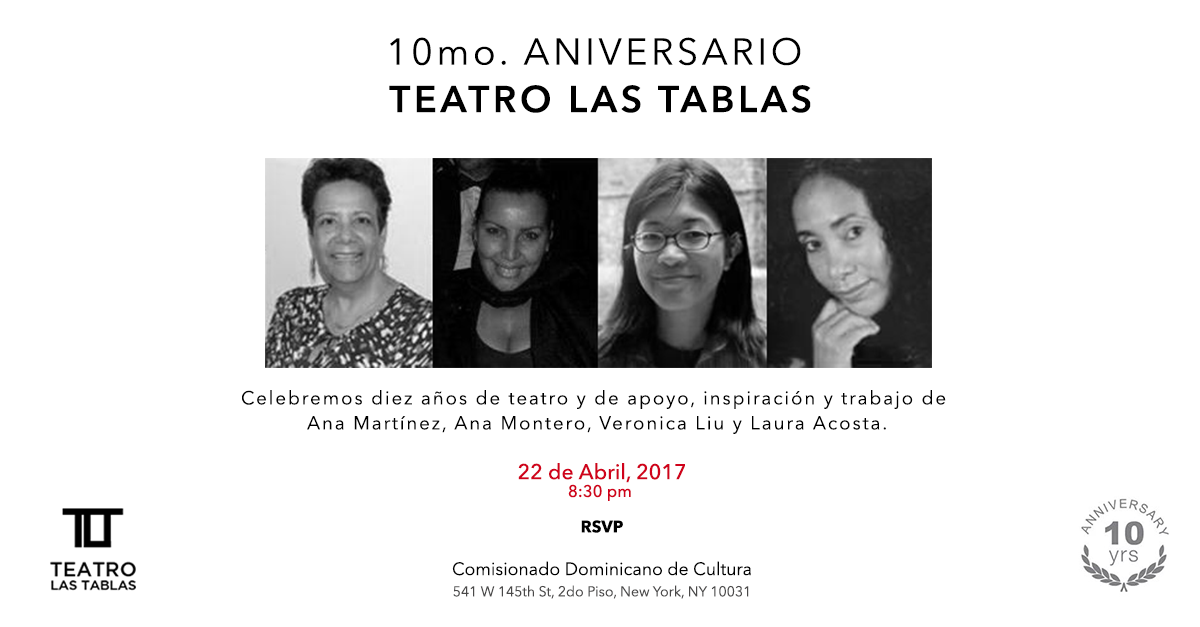
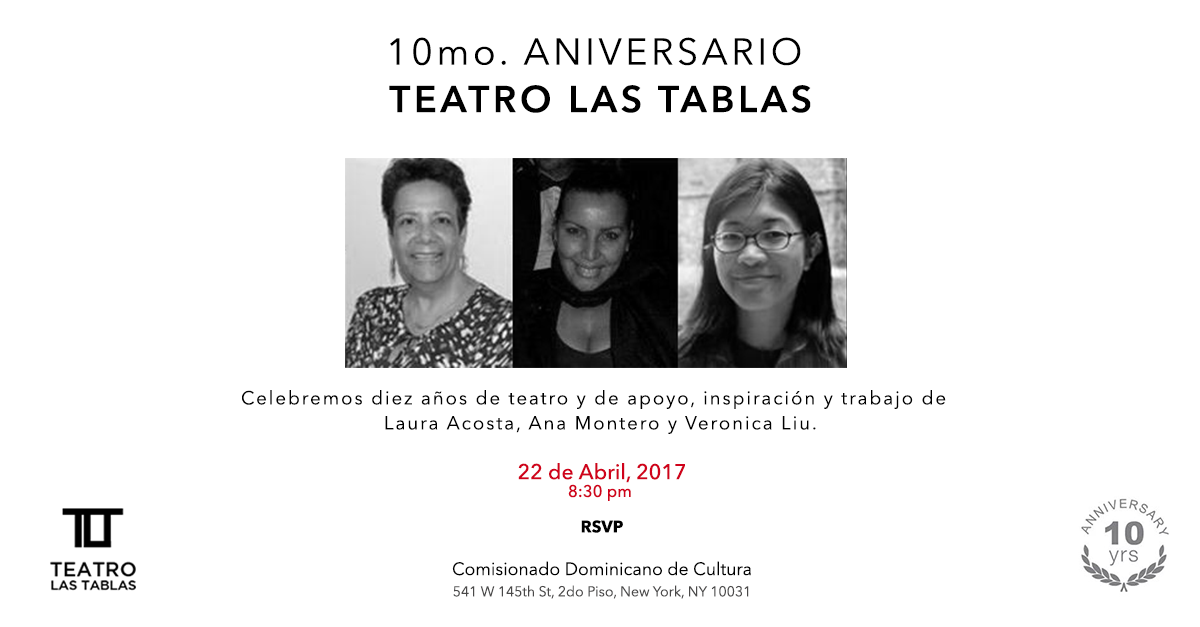
updated toast ad info and image

Changed region(s): [[0.2158, 0.2424, 0.8017, 0.6061], [0.2467, 0.6667, 0.74, 0.697]]

diff --git a/index.html b/index.html
@@ -74,7 +74,7 @@
               	<h1 class="drawline">Qu&eacute; est&aacute; pasando?</h1>
                     <a href="https://www.eventbrite.com/e/brindis-10mo-aniversario-tickets-33706873165?aff=eac2" ><div class="event_peek">10mo. Aniversario Teatro Las Tablas <p>Abril 22, 2017 | 8:30pm</p></div></a>
                 <img src="images/10anniversary_ad.png" title="10anniversary" class="event_image"/>
-                    <p>En su d&eacute;cimo aniversario <b>Teatro Las Tablas</b> celebra la creatividad, la valoración y sostenimiento de la energ&iacute;a que los impulsa a compartir la alegr&iacute;a de hacer teatro para la comunidad. Brindemos por diez a&ntilde;os de teatro y el apoyo, inspiraci&oacute;n y trabajo de <b>Ana Mart&iacute;nez, Ana Montero, Veronica Liu y Laura Acosta.</b></p>
+                    <p>En su d&eacute;cimo aniversario <b>Teatro Las Tablas</b> celebra la creatividad, la valoración y sostenimiento de la energ&iacute;a que los impulsa a compartir la alegr&iacute;a de hacer teatro para la comunidad. Brindemos por diez a&ntilde;os de teatro y el apoyo, inspiraci&oacute;n y trabajo de <b>Laura Acosta, Ana Montero, Y Veronica Liu.</b></p>
                     <a href="https://www.eventbrite.com/e/brindis-10mo-aniversario-tickets-33706873165?aff=eac2"><button type="button" class="btn btn-primary">RSVP</button></a></br></br>
                     
                     <!--<a href="https://www.eventbrite.com/e/los-monologos-de-la-vagina-tickets-31989765249?aff=es2" >--><div class="event_peek">Los mon&oacute;logos de la Vagina <p>Abril 22, 2017 | 7:00pm</p></div><!--</a> -->

diff --git a/index_en.html b/index_en.html
@@ -74,7 +74,7 @@
               	<h1 class="drawline">what's going on</h1>
                     <a href="https://www.eventbrite.com/e/brindis-10mo-aniversario-tickets-33706873165?aff=eac2" ><div class="event_peek">10th. Anniversary Teatro Las Tablas <p>April 22nd, 2017 | 8:30pm</p></div></a>
                 <img src="images/10anniversary_ad_en.png" title="10anniversary" class="event_image"/>
-                    <p>On its tenth anniversary, Las Tablas celebrates the creativity, nourishments, sustaining energy  that impels them to share the joy of making theater for the community.  Let's toast for ten years of theater and the support, inspiration and work of <b>Ana Martinez, Ana Montero, Veronica Liu y Laura Acosta.</b></p>
+                    <p>On its tenth anniversary, Las Tablas celebrates the creativity, nourishments, sustaining energy  that impels them to share the joy of making theater for the community.  Let's toast for ten years of theater and the support, inspiration and work of <b>Laura Acosta, Ana Montero, y Veronica Liu.</b></p>
                     <a href="https://www.eventbrite.com/e/brindis-10mo-aniversario-tickets-33706873165?aff=eac2"><button type="button" class="btn btn-primary">RSVP</button></a></br></br>
                     
                     <!-- <a href="https://www.eventbrite.com/e/los-monologos-de-la-vagina-tickets-31989765249?aff=es2" > --><div class="event_peek">Los mon&oacute;logos de la Vagina <p>April 22nd, 7:00pm</p></div><!--</a> -->
